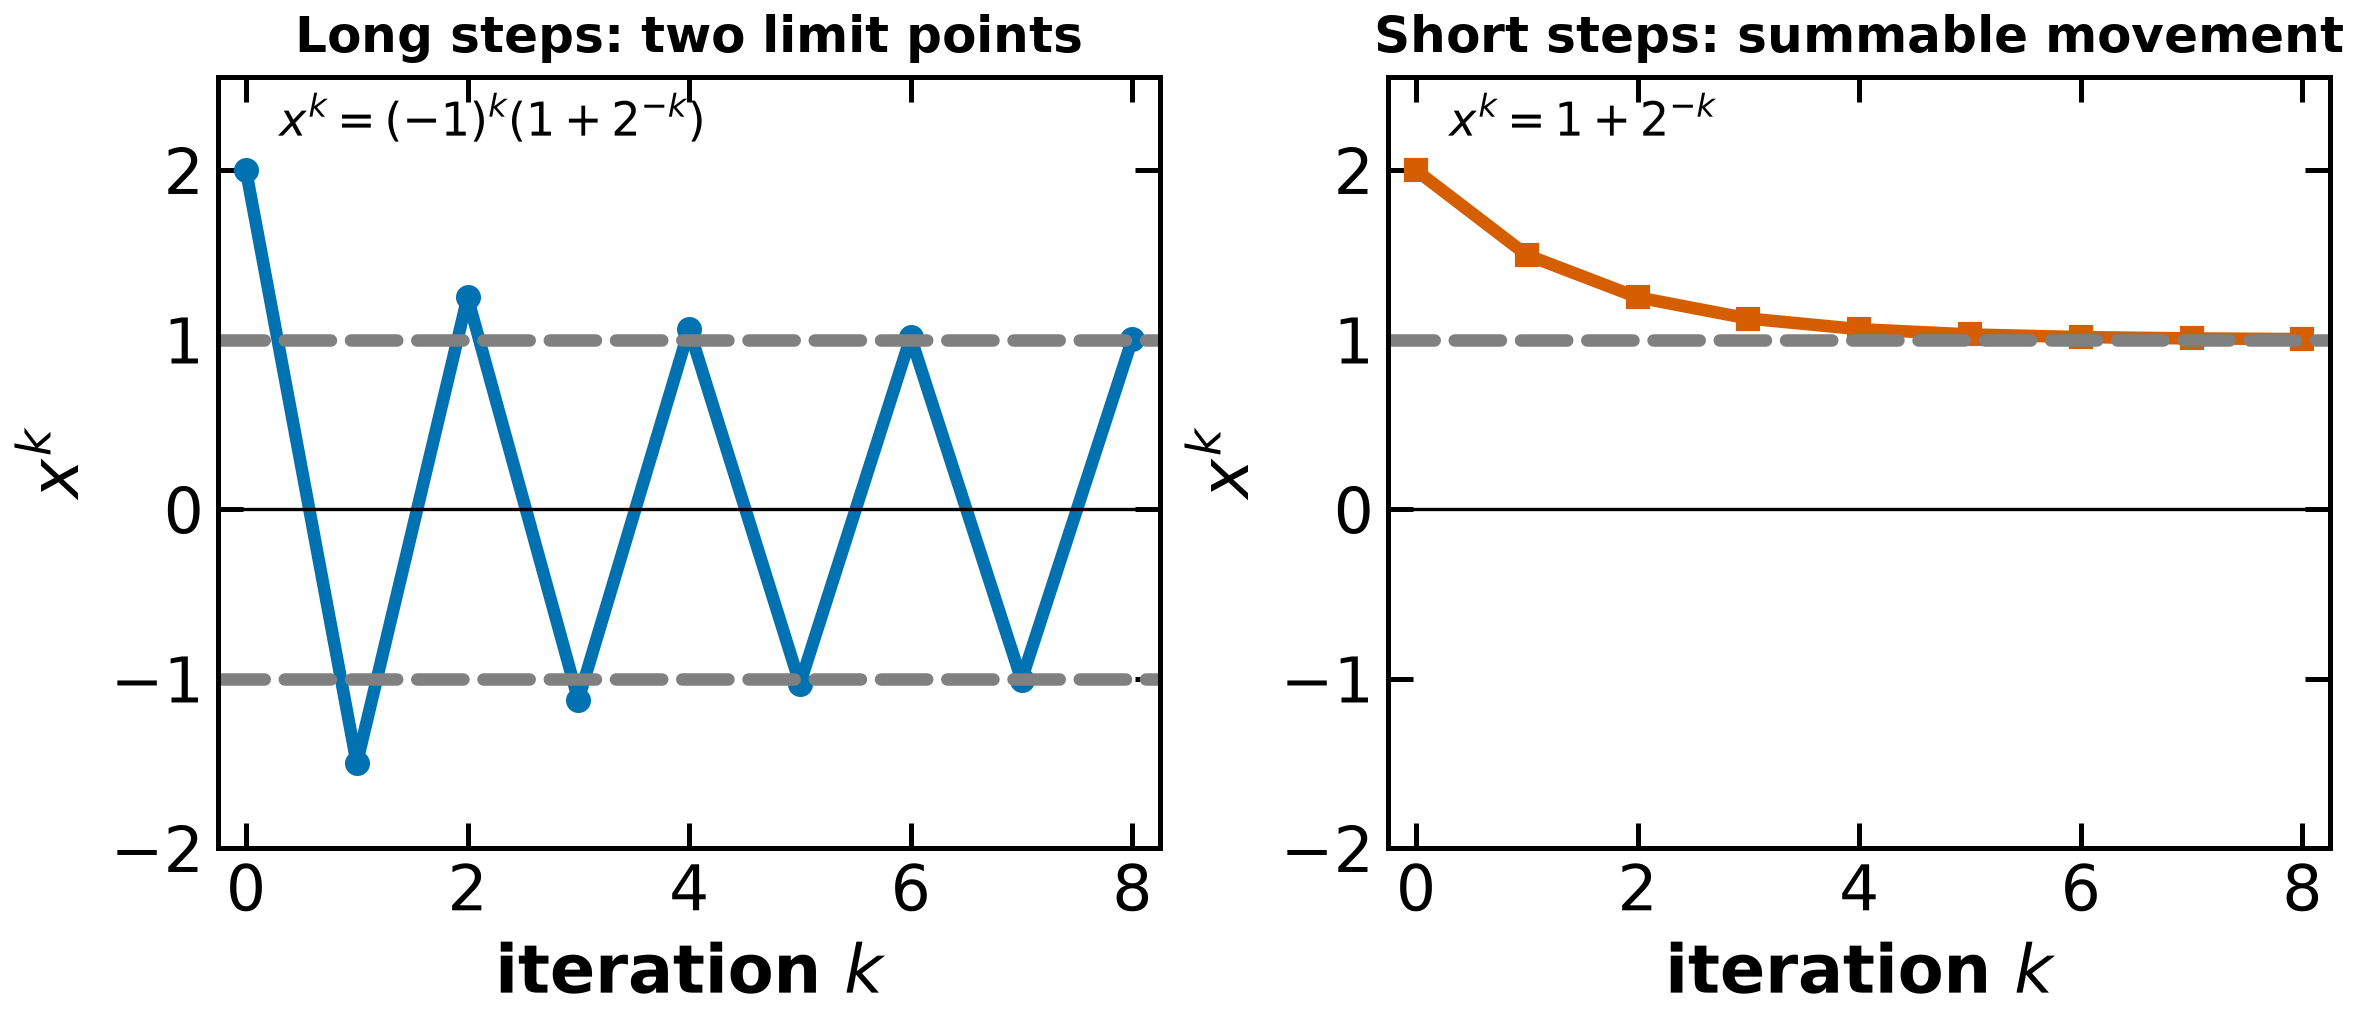
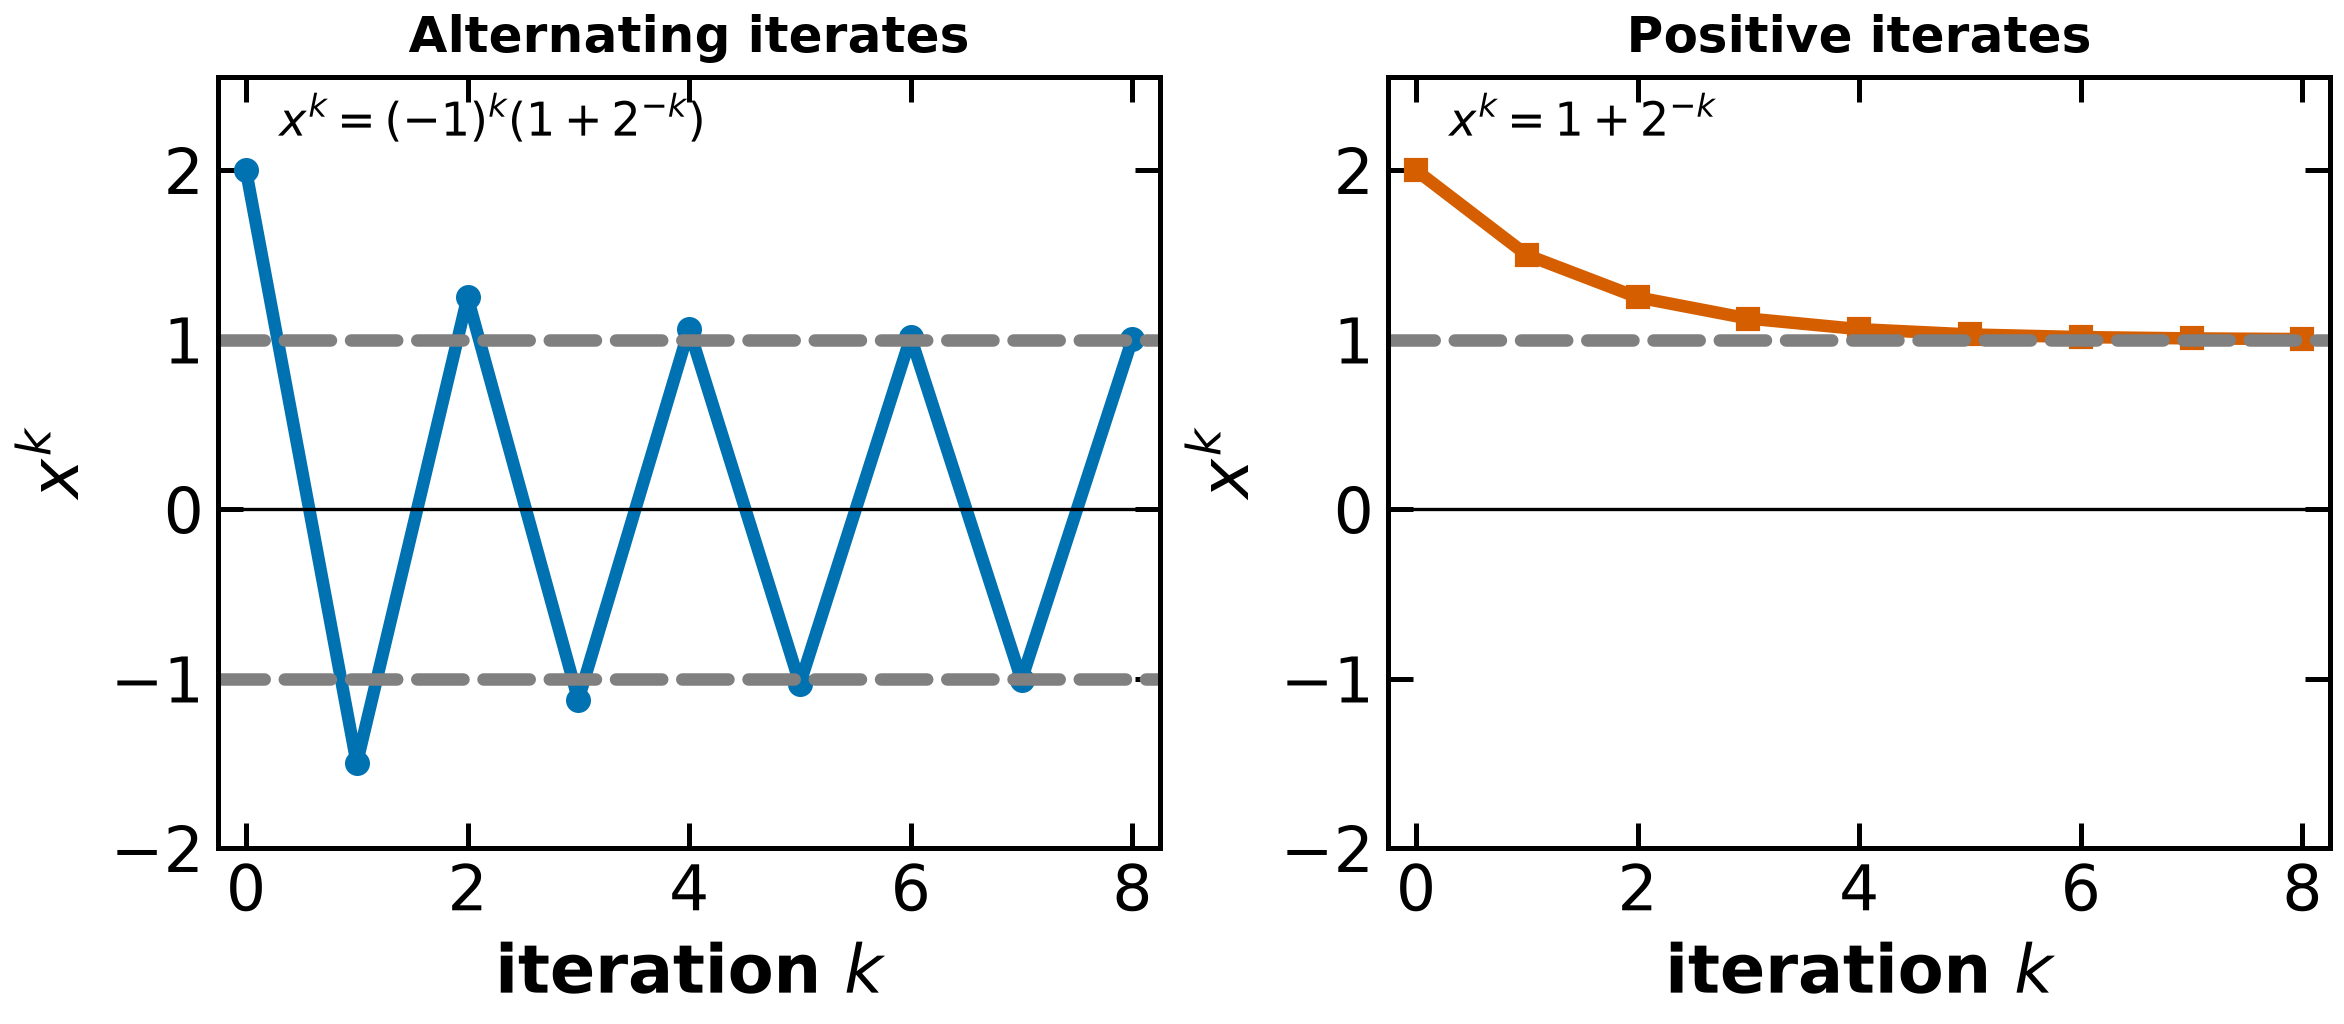
Keep sequence classifications out of activity figure titles

diff --git a/figures/plots/gl-short-long-paths.py b/figures/plots/gl-short-long-paths.py
@@ -16,8 +16,8 @@ def make_figure():
     for ax in axs:
         ax.axhline(0,color='black',linewidth=.8);ax.set(xlim=(-.25,8.25),ylim=(-2,2.55),xlabel='iteration $k$',ylabel='$x^k$')
         ax.set_xticks([0,2,4,6,8])
-    axs[0].set_title('Long steps: two limit points',fontsize=12)
-    axs[1].set_title('Short steps: summable movement',fontsize=12)
+    axs[0].set_title('Alternating iterates',fontsize=12)
+    axs[1].set_title('Positive iterates',fontsize=12)
     axs[0].text(.3,2.2,r'$x^k=(-1)^k(1+2^{-k})$',fontsize=11)
     axs[1].text(.3,2.2,r'$x^k=1+2^{-k}$',fontsize=11)
     return fig
